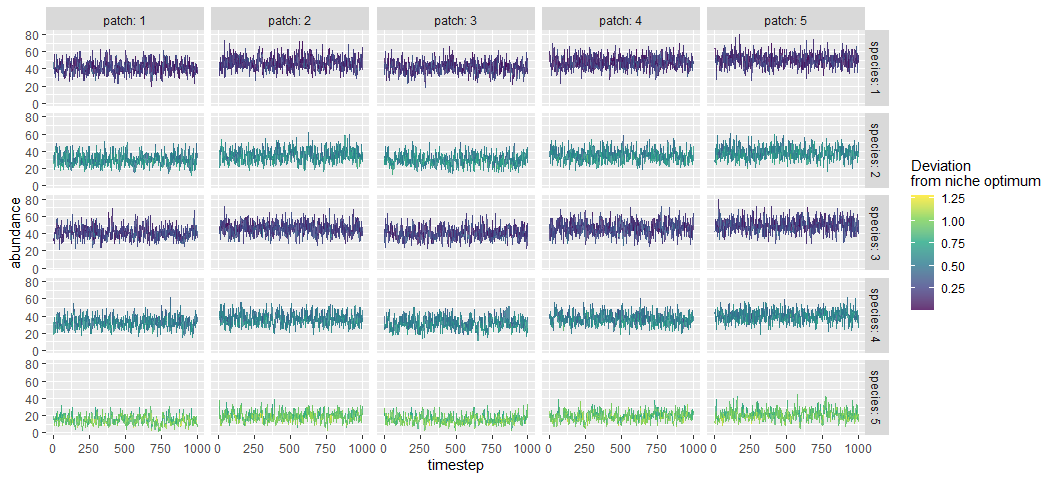
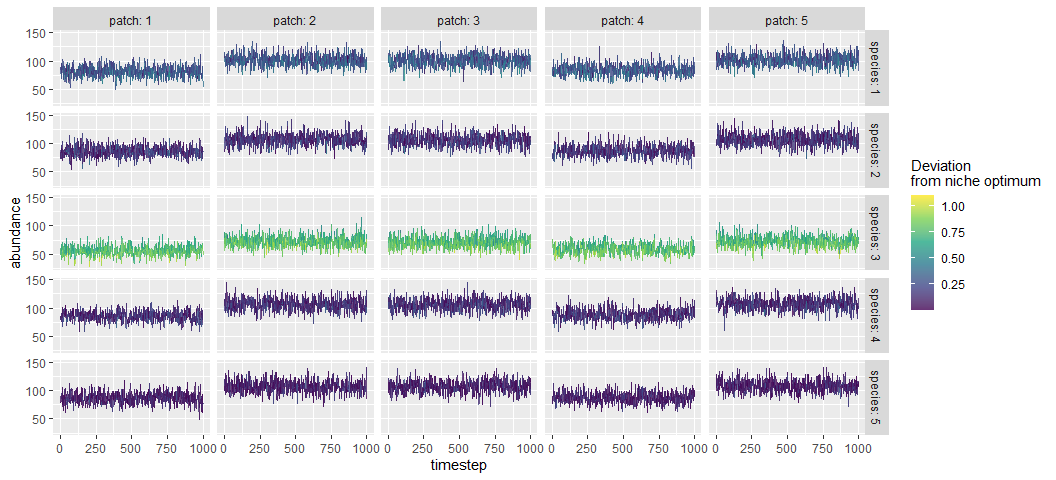
update README

diff --git a/README.md b/README.md
@@ -2,7 +2,7 @@ mcbrnet: an R package for simulating metacommunity dynamics in a
 branching network
 ================
 Akira Terui
-September 18, 2020
+September 19, 2020
 
   - [Overview](#overview)
   - [Installation](#installation)
@@ -290,6 +290,7 @@ The function returns:
         across sites and time-steps.
       - *r0*: maximum reproductive number of species i.
       - *niche\_optim*: optimal environmental value for species i.
+      - *sd\_niche\_width*: niche width for species i.
       - *p\_dispersal*: dispersal probability of species i.
   - `df_patch` a data frame containing patch attributes.
       - *patch*: patch ID.
@@ -336,39 +337,39 @@ mc
 
     ## $df_dynamics
     ## # A tibble: 25,000 x 9
-    ##    timestep patch mean_env     env carrying_capaci~ species niche_optim  r_xt
-    ##       <dbl> <dbl>    <dbl>   <dbl>            <dbl>   <dbl>       <dbl> <dbl>
-    ##  1        1     1        0 -0.0825              100       1       0.181  2.34
-    ##  2        1     1        0 -0.0825              100       2       0.595  1.93
-    ##  3        1     1        0 -0.0825              100       3      -0.234  2.40
-    ##  4        1     1        0 -0.0825              100       4       0.554  1.98
-    ##  5        1     1        0 -0.0825              100       5      -0.943  1.68
-    ##  6        1     2        0  0.136               100       1       0.181  2.42
-    ##  7        1     2        0  0.136               100       2       0.595  2.18
-    ##  8        1     2        0  0.136               100       3      -0.234  2.27
-    ##  9        1     2        0  0.136               100       4       0.554  2.22
-    ## 10        1     2        0  0.136               100       5      -0.943  1.36
+    ##    timestep patch mean_env    env carrying_capaci~ species niche_optim  r_xt
+    ##       <dbl> <dbl>    <dbl>  <dbl>            <dbl>   <dbl>       <dbl> <dbl>
+    ##  1        1     1        0 0.0394              100       1     -0.298   3.78
+    ##  2        1     1        0 0.0394              100       2     -0.138   3.94
+    ##  3        1     1        0 0.0394              100       3     -0.764   2.90
+    ##  4        1     1        0 0.0394              100       4     -0.122   3.95
+    ##  5        1     1        0 0.0394              100       5     -0.0474  3.98
+    ##  6        1     2        0 0.0829              100       1     -0.298   3.72
+    ##  7        1     2        0 0.0829              100       2     -0.138   3.90
+    ##  8        1     2        0 0.0829              100       3     -0.764   2.80
+    ##  9        1     2        0 0.0829              100       4     -0.122   3.92
+    ## 10        1     2        0 0.0829              100       5     -0.0474  3.97
     ## # ... with 24,990 more rows, and 1 more variable: abundance <dbl>
     ## 
     ## $df_species
     ## # A tibble: 5 x 6
-    ##   species mean_abundance    r0 niche_optim niche_width p_dispersal
-    ##     <dbl>          <dbl> <dbl>       <dbl>       <dbl>       <dbl>
-    ## 1       1           45.2     4       0.181           1         0.1
-    ## 2       2           33.0     4       0.595           1         0.1
-    ## 3       3           44.2     4      -0.234           1         0.1
-    ## 4       4           34.8     4       0.554           1         0.1
-    ## 5       5           17.3     4      -0.943           1         0.1
+    ##   species mean_abundance    r0 niche_optim sd_niche_width p_dispersal
+    ##     <dbl>          <dbl> <dbl>       <dbl>          <dbl>       <dbl>
+    ## 1       1           93.1     4     -0.298               1         0.1
+    ## 2       2           97.6     4     -0.138               1         0.1
+    ## 3       3           65.3     4     -0.764               1         0.1
+    ## 4       4           97.8     4     -0.122               1         0.1
+    ## 5       5           98.3     4     -0.0474              1         0.1
     ## 
     ## $df_patch
     ## # A tibble: 5 x 5
     ##   patch alpha_div mean_env carrying_capacity connectivity
     ##   <dbl>     <dbl>    <dbl>             <dbl>        <dbl>
-    ## 1     1         5        0               100        0.210
-    ## 2     2         5        0               100        0.488
-    ## 3     3         5        0               100        0.208
-    ## 4     4         5        0               100        0.488
-    ## 5     5         5        0               100        0.708
+    ## 1     1         5        0               100       0.0185
+    ## 2     2         5        0               100       1.07  
+    ## 3     3         5        0               100       1.04  
+    ## 4     4         5        0               100       0.114 
+    ## 5     5         5        0               100       1.11  
     ## 
     ## $df_diversity
     ## # A tibble: 1 x 3
@@ -380,19 +381,19 @@ mc
     ## # A tibble: 5 x 2
     ##   x_coord y_coord
     ##     <dbl>   <dbl>
-    ## 1    1.14    3.68
-    ## 2    5.11    8.61
-    ## 3    1.87    2.28
-    ## 4    7.08    9.04
-    ## 5    6.15    8.58
+    ## 1   7.36     7.42
+    ## 2   2.85     4.39
+    ## 3   2.77     5.13
+    ## 4   0.688    2.39
+    ## 5   3.31     4.79
     ## 
     ## $distance_matrix
-    ##          patch1   patch2   patch3   patch4   patch5
-    ## patch1 0.000000 6.334809 1.576422 8.007445 7.014340
-    ## patch2 6.334809 0.000000 7.109973 2.018866 1.043117
-    ## patch3 1.576422 7.109973 0.000000 8.534898 7.616243
-    ## patch4 8.007445 2.018866 8.534898 0.000000 1.037589
-    ## patch5 7.014340 1.043117 7.616243 1.037589 0.000000
+    ##          patch1    patch2    patch3   patch4    patch5
+    ## patch1 0.000000 5.4352670 5.1292848 8.353332 4.8294217
+    ## patch2 5.435267 0.0000000 0.7475175 2.940507 0.6112653
+    ## patch3 5.129285 0.7475175 0.0000000 3.438982 0.6388782
+    ## patch4 8.353332 2.9405067 3.4389818 0.000000 3.5515759
+    ## patch5 4.829422 0.6112653 0.6388782 3.551576 0.0000000
     ## 
     ## $interaction_matrix
     ##     sp1 sp2 sp3 sp4 sp5
@@ -449,9 +450,9 @@ value, the function assumes that the niche optimums are the same for all
 species. If `!is.null(niche_optim)`, then the function disables the
 random generation process of niche optimums, ignoring `optim_min` and
 `optim_max` arguments. `niche_cost` determines the cost of having wider
-niche (default: `niche_cost = 1`). Smaller values imply greater costs of
-wider niche (i.e., decreased maximum reproductive rate). To disable (no
-cost of wide niche), set `niche_cost = Inf`.
+niche. Smaller values imply greater costs of wider niche (i.e.,
+decreased maximum reproductive rate). To disable (no cost of wide
+niche), set `niche_cost = Inf` (default).
 
 For other parameters, users may specify species attributes by giving a
 scalar (assume identical among species) or a vector of values whose
